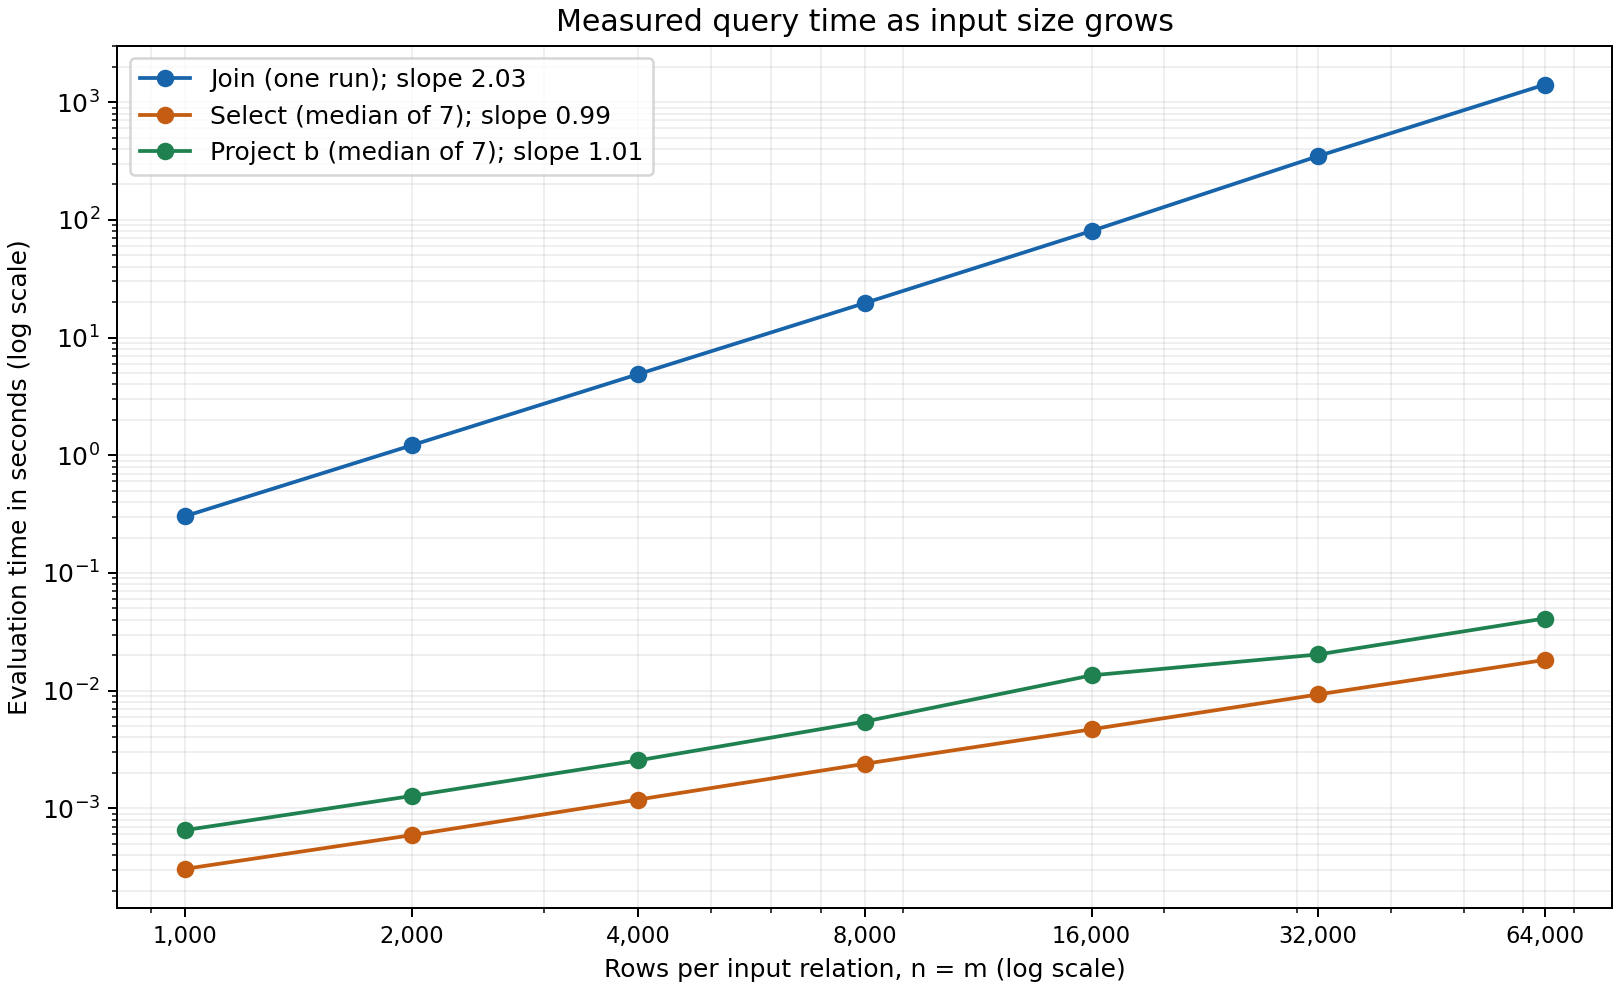
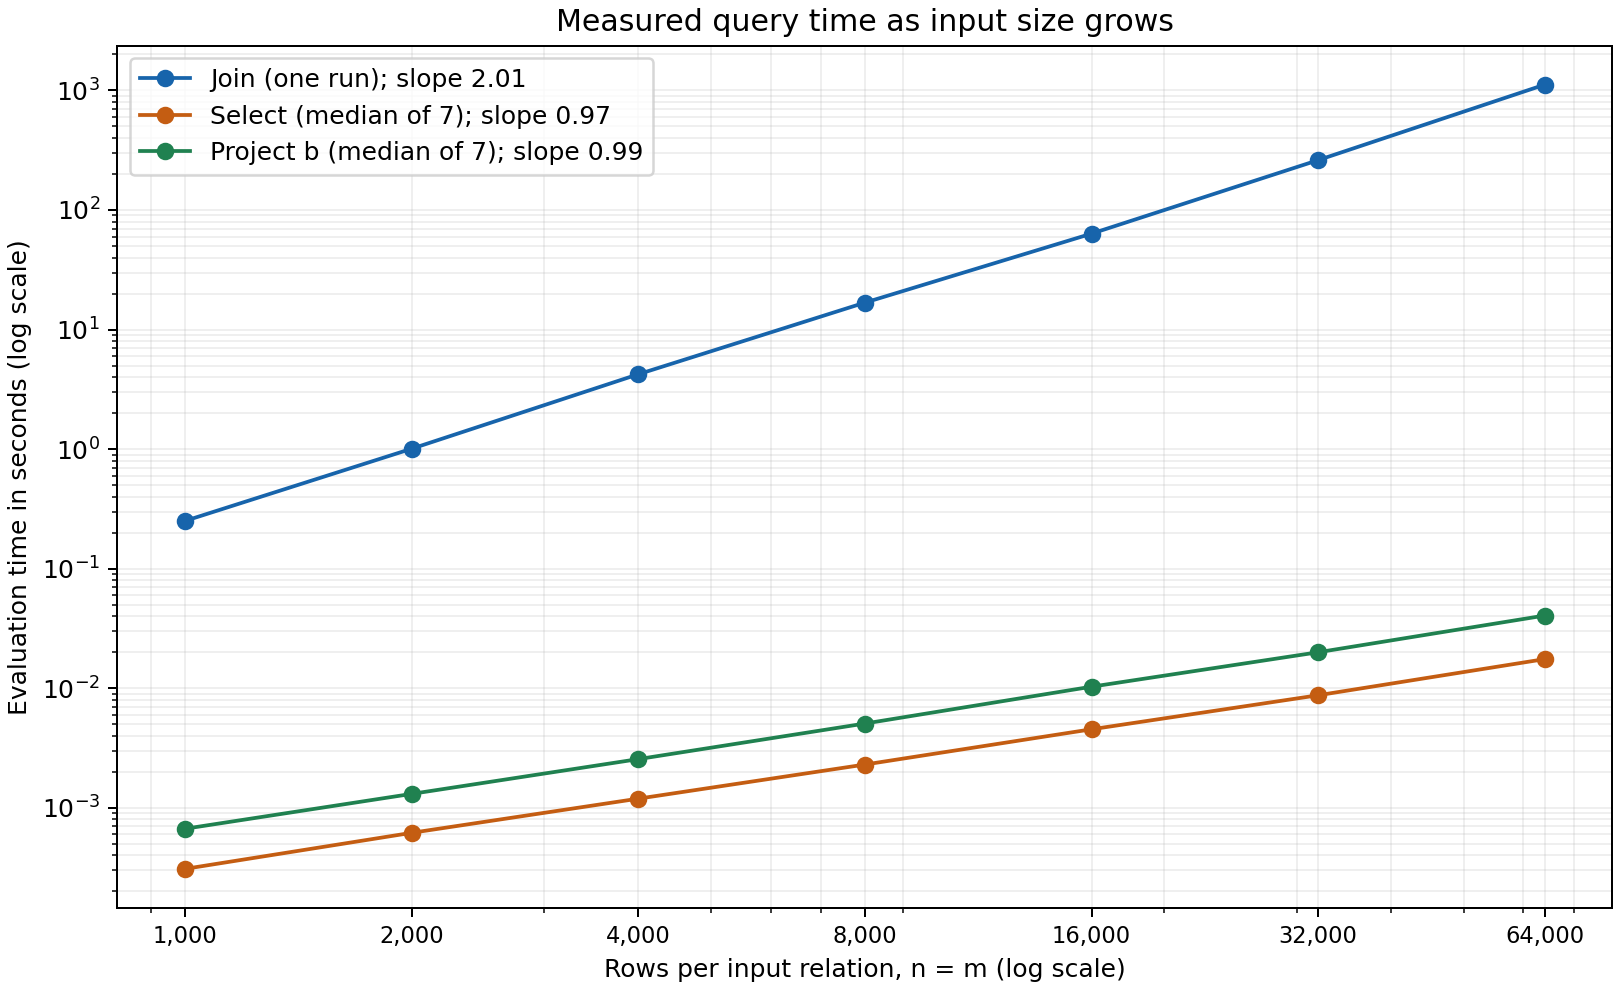
Separate join and select counters per revised instructions

diff --git a/tests/test_measurements.py b/tests/test_measurements.py
@@ -34,7 +34,7 @@ class MeasurementTests(unittest.TestCase):
                 result = execute('R join[R.b=S.b] S', data, stats)
                 self.assertEqual(len(result.rows), n * k)
                 self.assertEqual(stats.join_pairs, n * m)
-                self.assertEqual(stats.selection_rows, n * m)
+                self.assertEqual(stats.selection_rows, 0)
                 self.assertEqual(stats.output_rows, n * k)
                 self.assertGreaterEqual(stats.wall_seconds, 0)
 
@@ -63,13 +63,13 @@ class MeasurementTests(unittest.TestCase):
                 result = execute(f'R join[{condition}] S', data, stats)
                 expected = execute(f'select[{condition}](R times S)', data)
                 self.assertEqual(result, expected)
-                self.assertEqual((stats.join_pairs, stats.selection_rows), (12, 12))
+                self.assertEqual((stats.join_pairs, stats.selection_rows), (12, 0))
 
     def test_join_after_filter_uses_filtered_input(self):
         stats = Statistics()
         execute('select[a<2](R) join[R.b=S.b] S', tables(3, 4, 1), stats)
         self.assertEqual(stats.join_pairs, 8)
-        self.assertEqual(stats.selection_rows, 11)  # 3 filter rows + 8 join pairs.
+        self.assertEqual(stats.selection_rows, 3)  # Only the explicit filter examines rows.
 
     def test_multiple_joins_accumulate(self):
         stats = Statistics()
@@ -104,7 +104,7 @@ class MeasurementTests(unittest.TestCase):
                                     capture_output=True, text=True, timeout=10)
             self.assertEqual(result.returncode, 0, result.stderr)
             stats = json.loads(result.stderr)
-            self.assertEqual((stats['join_pairs'], stats['selection_rows'], stats['output_rows']), (12, 12, 6))
+            self.assertEqual((stats['join_pairs'], stats['selection_rows'], stats['output_rows']), (12, 0, 6))
             self.assertIn('(R.a, R.b, S.b, S.c)', result.stdout)
             original = Path(path).read_bytes()
             repeated = subprocess.run(command, capture_output=True, text=True, timeout=10)

diff --git a/source/engine.py b/source/engine.py
@@ -153,14 +153,12 @@ def bind_condition(node, columns):
     return compare
 
 
-def select(relation, condition, stats=None, *, joining=False):
+def select(relation, condition, stats=None):
     matches = bind_condition(condition, relation.columns)
     rows = []
     for row in relation.rows:
         if stats is not None:
             stats.selection_rows += 1
-            if joining:
-                stats.join_pairs += 1
         if matches(row):
             rows.append(row)
     return Relation(relation.columns, tuple(rows))
@@ -195,6 +193,18 @@ def times(left, right, *, materialize=True):
 
     rows = pairs()
     return Relation(columns, tuple(rows) if materialize else rows)
+
+
+def join(left, right, condition, stats=None):
+    product = times(left, right, materialize=False)
+    matches = bind_condition(condition, product.columns)
+    rows = []
+    for pair in product.rows:
+        if stats is not None:
+            stats.join_pairs += 1
+        if matches(pair):
+            rows.append(pair)
+    return Relation(product.columns, tuple(rows))
 
 
 def compatible(left, right):
@@ -235,10 +245,8 @@ def evaluate(tree, tables, stats=None):
         return rename(relation, parameter.value)
     if tree.kind == 'Join':
         condition, left, right = tree.children
-        # Feed every product pair to selection without storing rejected pairs.
-        product = times(evaluate(left, tables, stats), evaluate(right, tables, stats),
-                        materialize=False)
-        return select(product, condition, stats, joining=True)
+        return join(evaluate(left, tables, stats), evaluate(right, tables, stats),
+                    condition, stats)
     left = evaluate(tree.children[0], tables, stats)
     right = evaluate(tree.children[1], tables, stats)
     if tree.kind == 'Times':

diff --git a/source/experiment.py b/source/experiment.py
@@ -21,6 +21,7 @@ def measure(stream, data, query, n, matches, group, trial):
                   trial=trial, **asdict(stats))
     if group in ('join', 'match-rate'):
         assert stats.join_pairs == n * n
+        assert stats.selection_rows == 0
         assert stats.output_rows == n * matches
     elif group == 'select':
         assert stats.selection_rows == n and len(result.rows) == n // 2

diff --git a/REPORT.md b/REPORT.md
@@ -1,14 +1,14 @@
 # Performance report
 
-Machine: MacBook Air (Mac15,13), Apple M3, 8 CPU cores, 16 GB memory. OS: macOS 26.6, arm64. Language: Python 3.13.1 (CPython). Measurements: 2026-09-23.
+Machine: MacBook Air (Mac15,13), Apple M3, 8 CPU cores, 16 GB memory. OS: macOS 26.6, arm64. Language: Python 3.13.1 (CPython). Measurements: 2026-09-28.
 
 ## Setup
 
 I used `source/experiment.py` to generate relation files, load them and run the queries. R has columns `(a,b)` and S has `(b,c)`. All R rows have `b=0`; in the main experiment exactly one S row has `b=0`. The `a` and `c` values are unique, so the input rows stay distinct. Each R row matches one S row. This is a controlled dataset: many rows share the same join key.
 
-The engine's `perf_counter()` timer covers running the query, including checking the condition's column names, building result rows and counting work. Generating and loading files, parsing the query and printing results are outside the timer. The join uses nested loops and passes every pair to selection, keeping only matches. It does not store all pairs first. It still checks every pair and uses no index or hash join.
+The engine's `perf_counter()` timer covers running the query, including checking the condition's column names, building result rows and counting work. Generating and loading files, parsing the query and printing results are outside the timer. The join uses nested loops and checks its condition on every pair, keeping only matches. It does not store all pairs first. It still checks every pair and uses no index or hash join.
 
-The join counter increases once per pair inside the selection loop. The selection counter also increases for that pair, so the two counts describe the same work and should not be added. The experiment runner recorded actual counts and unrounded times after each query. The runner checks the counts after timing; it does not fill them in from a formula.
+The join counter increases once per pair inside the join operation. The selection counter increases only when a `select` operation examines a row. A join on its own therefore has zero selection examinations. The experiment runner recorded actual counts and unrounded times after each query. The runner checks the counts after timing; it does not fill them in from a formula.
 
 ## Join measurements
 
@@ -16,13 +16,13 @@ Query: `R join[R.b=S.b] S`. One timed run per size, in increasing order, with on
 
 | n | m | Comparisons | Wall time (s) | Output tuples |
 | ---: | ---: | ---: | ---: | ---: |
-| 1,000 | 1,000 | 1,000,000 | 0.304460 | 1,000 |
-| 2,000 | 2,000 | 4,000,000 | 1.217272 | 2,000 |
-| 4,000 | 4,000 | 16,000,000 | 4.899501 | 4,000 |
-| 8,000 | 8,000 | 64,000,000 | 19.670189 | 8,000 |
-| 16,000 | 16,000 | 256,000,000 | 80.549386 | 16,000 |
-| 32,000 | 32,000 | 1,024,000,000 | 347.868669 | 32,000 |
-| 64,000 | 64,000 | 4,096,000,000 | 1408.401873 | 64,000 |
+| 1,000 | 1,000 | 1,000,000 | 0.251481 | 1,000 |
+| 2,000 | 2,000 | 4,000,000 | 1.008997 | 2,000 |
+| 4,000 | 4,000 | 16,000,000 | 4.231295 | 4,000 |
+| 8,000 | 8,000 | 64,000,000 | 16.801241 | 8,000 |
+| 16,000 | 16,000 | 256,000,000 | 63.393789 | 16,000 |
+| 32,000 | 32,000 | 1,024,000,000 | 260.977313 | 32,000 |
+| 64,000 | 64,000 | 4,096,000,000 | 1116.601523 | 64,000 |
 
 ### 1. Comparison count
 
@@ -32,7 +32,7 @@ The measured count is exactly `n * m` at every size. For each R row, the inner l
 
 ![Log-log plot of measured query times](performance.png)
 
-I fitted a straight line to `log10(n)` and `log10(seconds)` using all seven sizes. The join slope is **2.032**. A slope near 2 means time grows roughly as n²: doubling both inputs gives about four times as many comparisons. These times can vary with other computer activity and memory use. The join was run once per size.
+I fitted a straight line to `log10(n)` and `log10(seconds)` using all seven sizes. The join slope is **2.010**. A slope near 2 means time grows roughly as n²: doubling both inputs gives about four times as many comparisons. These times can vary with other computer activity and memory use. The join was run once per size.
 
 ### 3. Selection and projection
 
@@ -40,15 +40,15 @@ At each size I ran `select[a<n/2](R)`, replacing `n/2` with the actual integer, 
 
 | n | Select seconds | Rows examined | Select output | Project seconds | Project output |
 | ---: | ---: | ---: | ---: | ---: | ---: |
-| 1,000 | 0.000306 | 1,000 | 500 | 0.000654 | 1 |
-| 2,000 | 0.000592 | 2,000 | 1,000 | 0.001275 | 1 |
-| 4,000 | 0.001188 | 4,000 | 2,000 | 0.002557 | 1 |
-| 8,000 | 0.002392 | 8,000 | 4,000 | 0.005467 | 1 |
-| 16,000 | 0.004695 | 16,000 | 8,000 | 0.013489 | 1 |
-| 32,000 | 0.009283 | 32,000 | 16,000 | 0.020305 | 1 |
-| 64,000 | 0.018236 | 64,000 | 32,000 | 0.041021 | 1 |
+| 1,000 | 0.000309 | 1,000 | 500 | 0.000669 | 1 |
+| 2,000 | 0.000618 | 2,000 | 1,000 | 0.001308 | 1 |
+| 4,000 | 0.001193 | 4,000 | 2,000 | 0.002554 | 1 |
+| 8,000 | 0.002300 | 8,000 | 4,000 | 0.005066 | 1 |
+| 16,000 | 0.004535 | 16,000 | 8,000 | 0.010297 | 1 |
+| 32,000 | 0.008730 | 32,000 | 16,000 | 0.019984 | 1 |
+| 64,000 | 0.017502 | 64,000 | 32,000 | 0.040516 | 1 |
 
-Selection has slope **0.986** and projection has slope **1.011**. Selection examines n rows and returns half. Projection visits n rows but produces one distinct `b` value, so checking for duplicates is quick. Both times grow roughly with n for this dataset, while the join checks n² pairs. Projection can be slower with many distinct output rows because this engine checks saved rows one by one. Loading can be slow for the same reason, but loading is outside the query timer.
+Selection has slope **0.966** and projection has slope **0.987**. Selection examines n rows and returns half. Projection visits n rows but produces one distinct `b` value, so checking for duplicates is quick. Both times grow roughly with n for this dataset, while the join checks n² pairs. Projection can be slower with many distinct output rows because this engine checks saved rows one by one. Loading can be slow for the same reason, but loading is outside the query timer.
 
 ### 4. Prediction for one million rows per side
 
@@ -56,9 +56,9 @@ Using the largest measured join and quadratic scaling:
 
 ```text
 scale = (1,000,000 / 64,000)^2 = 244.140625
-predicted time = 1408.401873 seconds * 244.140625
-               = 343,848.11 seconds
-               = 95.51 hours
+predicted time = 1116.601523 seconds * 244.140625
+               = 272,607.79 seconds
+               = 75.72 hours
 comparisons = 1,000,000 * 1,000,000 = 1,000,000,000,000
 ```
 
@@ -70,9 +70,9 @@ I held n=m=1,000 fixed, regenerated the inputs with different match counts and r
 
 | S matches per R row | Comparisons per run | Wall time (s) | Output tuples |
 | ---: | ---: | ---: | ---: |
-| 0 | 1,000,000 | 0.316162 | 0 |
-| 1 | 1,000,000 | 0.302644 | 1,000 |
-| 1,000 | 1,000,000 | 0.482768 | 1,000,000 |
+| 0 | 1,000,000 | 0.251064 | 0 |
+| 1 | 1,000,000 | 0.252512 | 1,000 |
+| 1,000 | 1,000,000 | 0.425473 | 1,000,000 |
 
 Every run still makes 1,000,000 comparisons because the nested loops visit every pair. Time can change because matching rows must be saved. The all-match case stores one million rows; the zero-match case stores none. That extra work helps explain why equal comparison counts can have different times. Small differences can also be measurement noise.
 

diff --git a/README.md b/README.md
@@ -19,7 +19,7 @@ python3 -m unittest discover -s tests -p 'test_*.py' -v
 
 `ra.py` starts the command-line program. The implementation is in `source/`: `tokenizer.py` splits text into tokens, `parser.py` builds and prints parse trees, `engine.py` runs the operators, and `cli.py` prints results or errors. `generator.py` makes relation files for the performance study, and `experiment.py` runs the measurements.
 
-The engine supports `select`, `project`, `rename`, `times`, `join`, `union`, `intersect` and `minus`. Selection keeps rows that meet a condition. Projection keeps chosen columns and removes duplicate rows. Set operations require the same column names, order and types on both sides. A join checks pairs with nested loops and keeps both join columns. It passes each pair to selection without storing the whole product first.
+The engine supports `select`, `project`, `rename`, `times`, `join`, `union`, `intersect` and `minus`. Selection keeps rows that meet a condition. Projection keeps chosen columns and removes duplicate rows. Set operations require the same column names, order and types on both sides. A join checks pairs with nested loops and keeps both join columns. It applies the join condition to each pair without storing the whole product first.
 
 A schema is the list of columns and their types. Types come from the input values. Numbers use Python's `Decimal`, so `1` and `1.0` compare equal. Strings are case-sensitive. Comparing a number with a string is a type error. An empty input table has unknown column types because the file format does not declare them. Even an empty result keeps its column names and known types.
 
@@ -47,11 +47,11 @@ The generator refuses to overwrite an existing file. In this example, each R row
 | Field | Meaning |
 | --- | --- |
 | `join_pairs` | Pairs checked by joins. |
-| `selection_rows` | Rows checked by selections, including the selection inside a join. |
+| `selection_rows` | Rows checked by `select` operations. Join pairs are counted separately. |
 | `wall_seconds` | Time spent running the query, excluding loading, parsing and printing. |
 | `output_rows` | Rows in the final result. |
 
-For the example, both `join_pairs` and `selection_rows` are 12 because they count the same 3 by 4 pair checks. The counters increase during execution, not from a size formula.
+For the example, `join_pairs` is 12 and `selection_rows` is 0 because the query has a join but no separate `select`. The counters increase during execution, not from a size formula.
 
 [REPORT.md](REPORT.md) explains the full performance study and includes its log-log plot, `performance.png`. To repeat the measurements, run `python3 -m source.experiment --output new-measurements.jsonl`. It takes a long time and will not overwrite an existing file.
 

diff --git a/DESIGN_LOG.md b/DESIGN_LOG.md
@@ -48,12 +48,12 @@ The earlier AI-assisted join materialized the product before selecting matches. 
 
 ## 2026-09-25: report and submission check
 
-I used the measurements to write `REPORT.md` and make its log-log plot. The largest join took 1,408.401873 seconds and checked 4,096,000,000 pairs. During the submission check, I found the test files in the project root instead of the required `tests/` folder, moved them, fixed their paths and confirmed that all 89 tests passed.
+I used the first full measurements to draft `REPORT.md` and its log-log plot. During the submission check, I found the test files in the project root instead of the required `tests/` folder, moved them, fixed their paths and confirmed that all 89 tests passed.
 
 ## 2026-09-27: documentation check
 
 I reviewed `README.md`, `GRAMMAR.md` and `REPORT.md` to make the explanations easier to follow while keeping the required DBMS terms. The README still did not clearly explain why the self-join needs `rename`, so I added that explanation and checked the tests again.
 
-## 2026-09-28: submission files and log
+## 2026-09-28: submission check and revised counters
 
-I checked the submitted files against the assignment list and found an optional plotting script and raw results export that were not required. I removed those files, fixed their references in the README and report, and tested a fresh GitHub checkout; all 89 tests passed. I also revised this log so its entries describe the work and problems more plainly.
+I removed an optional plotting script and raw results export, fixed their references, and checked that a fresh GitHub checkout passed all 89 tests. The revised counter wording exposed another mistake in the earlier AI-assisted join: it also increased the selection counter, so I separated the two counters inside their own operators and reran the tests. I repeated the full performance study and updated the report and plot from the new measurements.
